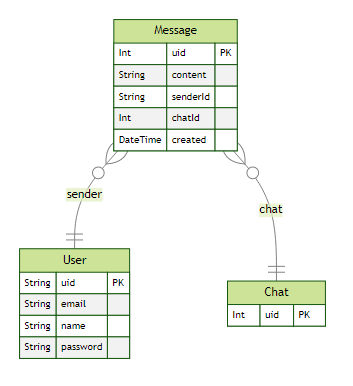
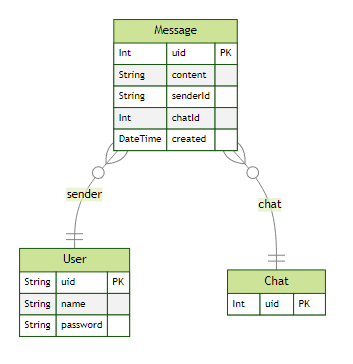
removed email from user & updated backend

Changed region(s): [[0.0312, 0.0302, 0.8102, 0.9368], [0.6232, 0.6346, 0.9348, 0.8764]]

diff --git a/server/api/register.post.ts b/server/api/register.post.ts
@@ -5,7 +5,6 @@ export default defineEventHandler(async event => {
 
 	const result =  await prisma.user.create({
 		data: {
-			email: body.email as string,
 			name: body.name as string,
 			password: body.password as string,
 		},
